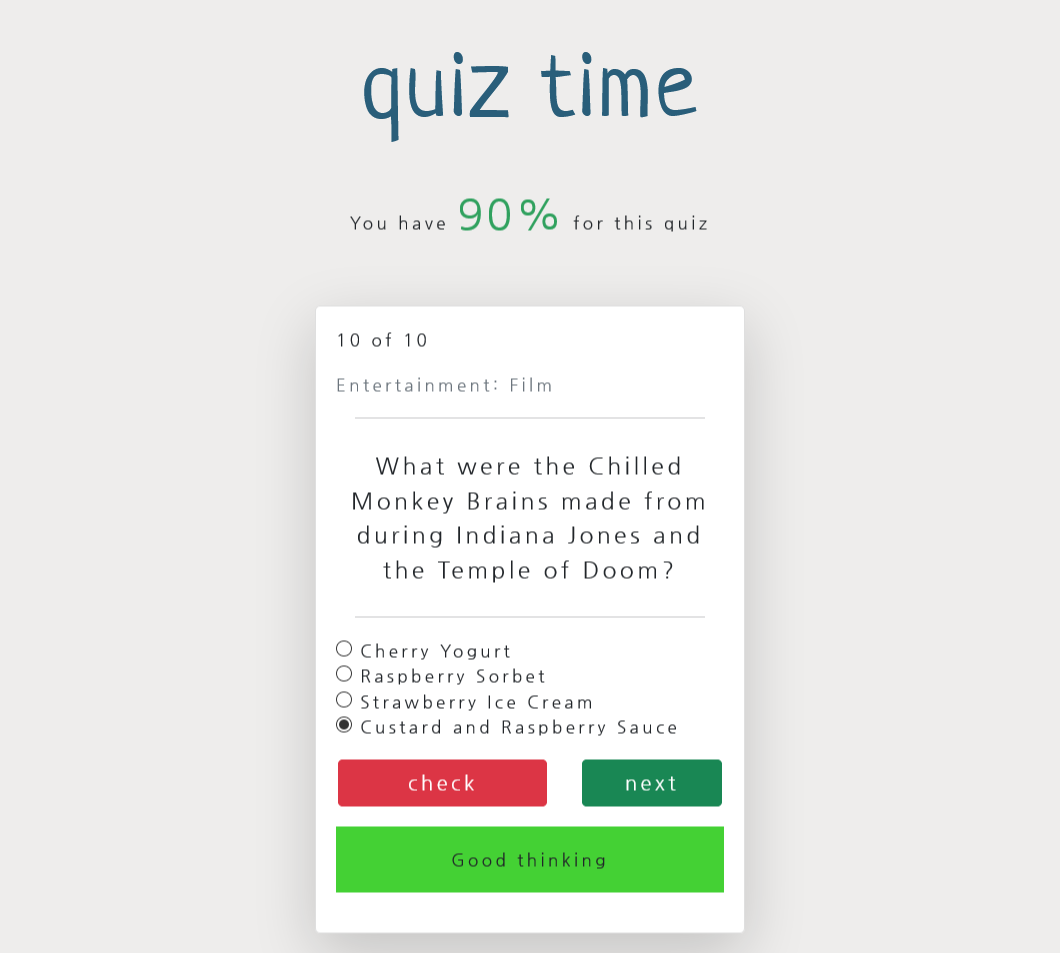
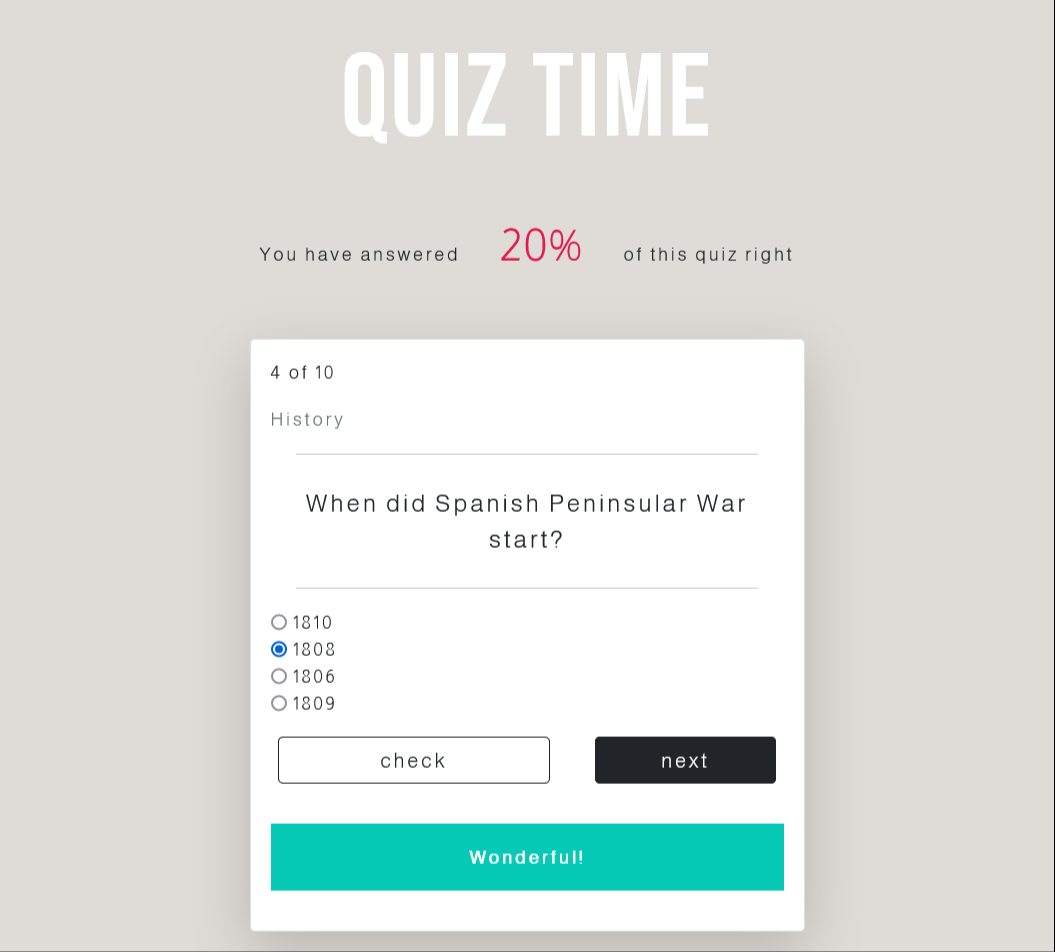
changed layout

diff --git a/script/app.js b/script/app.js
@@ -28,7 +28,7 @@ startQuiz.addEventListener('click', e => {
 let count = 0;
 const updateUI = (data) => {
     const entries = data.results;
-    console.log(entries);
+    //console.log(entries);
 
     if (entries.length == 0) {
         console.log('No results returned.');
@@ -68,7 +68,7 @@ const getQuestion = (data) => {
     for (let i = 0; i < entries[count].incorrect_answers.length; i++) {
         answers.push(entries[count].incorrect_answers[i]);
     }
-    console.table(answers);
+    //console.table(answers);
     /* randomise order of answers */
 
     answers.sort(() => Math.random() - 0.5);
@@ -111,12 +111,14 @@ const getQuestion = (data) => {
             let words = ['Good for you!', 'That’s really nice', 'Superb', 'That’s great!', 'You’ve got it made', 'Way to go!', 'Terrific', 'That’s the way to do it!', 'Good thinking', 'Marvelous', 'Keep up the good work', 'That’s it!', 'You’re on the right track now!', 'You haven’t missed a thing', 'Outstanding!', 'Fantastic!', 'You’re doing a good job', 'Good work', 'Right on!', 'Well, look at you go!', 'Tremendous!', 'That’s RIGHT!', 'Perfect!', 'You must have been practicing!', 'Nice going', 'Great!', 'You remembered!', 'WOW!', 'Wonderful!', 'You’re really working hard today', 'I knew you could do it!', 'I’m very proud of you', 'Fine!', 'Super!', 'That’s good', 'Good job', 'Keep it up!', 'Good remembering', 'Congratulations', 'Nothing can stop you now', 'Exactly right!', 'Excellent!', 'Sensational!', 'You’re doing beautifully', 'I’ve never seen anyone do it better', 'You’ve just mastered that!', 'You are very good at that'];
             let randomNumber = Math.round(Math.random() * (words.length - 1));
 
-            displayCorrect.style.backgroundColor = '#44d134';
-            displayCorrect.innerHTML = `<p class="p-3">${words[randomNumber]}</p>`;
+            displayCorrect.style.backgroundColor = '#06c9b6';
+            displayCorrect.style.color = '#fff';
+            displayCorrect.innerHTML = `<p class="p-3 response">${words[randomNumber]}</p>`;
             score += 10;
         } else {
-            displayCorrect.style.backgroundColor = '#e5245d';
-            displayCorrect.innerHTML = `<p class="p-3">ups..wrong. The right one is ${entries[count-1].correct_answer}</p>`;
+            displayCorrect.style.backgroundColor = '#c90671';
+            displayCorrect.style.color = '#fff';
+            displayCorrect.innerHTML = `<p class="p-3 response">ups..wrong. The right one is ${entries[count-1].correct_answer}</p>`;
         }
         nextBtn.classList.remove('disabled');
 

diff --git a/index.html b/index.html
@@ -9,10 +9,11 @@
     <!--bootstrap v.5.0.0-->
     <link href="https://cdn.jsdelivr.net/npm/bootstrap@5.0.0-beta2/dist/css/bootstrap.min.css" rel="stylesheet" integrity="sha384-BmbxuPwQa2lc/FVzBcNJ7UAyJxM6wuqIj61tLrc4wSX0szH/Ev+nYRRuWlolflfl" crossorigin="anonymous">
     <!-- google font-->
-    <link rel="preconnect" href="https://fonts.gstatic.com">
-    <link href="https://fonts.googleapis.com/css2?family=Nanum+Gothic&family=Neucha&display=swap" rel="stylesheet">
+    <link rel="preconnect" href="https://fonts.googleapis.com">
+    <link rel="preconnect" href="https://fonts.gstatic.com" crossorigin>
+    <link href="https://fonts.googleapis.com/css2?family=Almarai:wght@300&family=Bebas+Neue&display=swap" rel="stylesheet">
     <link rel="stylesheet" href="styles/styles.css">
-    <title>Quizz_Time</title>
+    <title>QuizTime</title>
 </head>
 
 <body>
@@ -20,13 +21,13 @@
     <!-- result section-->
     <div class='result d-none py-2 text-center'>
         <div>
-            <p>You have <span>0 points of 10</span> for this quiz</p>
+            <p>You have answered <span>0 points of 10</span> of this quiz right</p>
         </div>
     </div>
     <div class='container my-2 mx-auto'>
         <!-- quiz section -->
         <div class='d-flex justify-content-center'>
-            <a class='btn btn-warning mt-3' id='startQuiz'>start quiz</a>
+            <a class='btn btn-dark mt-3' id='startQuiz'>START</a>
         </div>
 
         <!-- Cards with questions -->
@@ -39,8 +40,8 @@
                 <hr>
                 <div id='allAnswers' class="my-3"></div>
                 <div class="d-flex row justify-content-around my-3">
-                    <a class='col-6 btn btn-danger' id='checkAnswer'>check</a>
-                    <a class='col-4 btn btn-success disabled' id='nextBtn'>next</a>
+                    <a class='col-6 btn btn-outline-dark' id='checkAnswer'>check</a>
+                    <a class='col-4 btn btn-dark disabled' id='nextBtn'>next</a>
                 </div>
                 <p class='text-center d-none' id='displayCorrect'></p>
             </div>

diff --git a/styles/styles.css b/styles/styles.css
@@ -1,28 +1,29 @@
 * {
   padding: 0;
   margin: 0;
-  font-family: 'Nanum Gothic', sans-serif;
+  font-family: 'Almarai', sans-serif;
 }
 
 body {
-  background: #eeedec;
-  letter-spacing: 0.2em;
-  font-size: 0.85em;
+  background: #dfdcd7;
+  letter-spacing: 0.15em;
+  font-size: 0.9em;
 }
 
 #appHeading {
-  font-size: 5.5em;
-  color: #295E7A;
-  font-family: 'Neucha', cursive;
+  font-size: 6.5em;
+  color: white;
+  font-family: 'Bebas Neue', cursive;
 }
 
 span {
-  color: #30a15e;
+  color: #e4194c;
   font-size: 2.5em;
+  padding: 0 .75em;
 }
 
 .container {
-  max-width: 400px;
+  max-width: 500px;
 }
 
 hr {
@@ -32,5 +33,10 @@ hr {
 
 #question {
   font-size: 1.35em;
+}
+
+.response {
+  font-weight: bold;
+  margin-top: 2rem;
 }
 /*# sourceMappingURL=styles.css.map */

diff --git a/styles/styles.sass b/styles/styles.sass
@@ -1,24 +1,25 @@
 *
     padding: 0
     margin: 0
-    font-family: 'Nanum Gothic', sans-serif
+    font-family: 'Almarai', sans-serif;
 
 body
-    background: #eeedec
-    letter-spacing: 0.2em
-    font-size: 0.85em
+    background: #dfdcd7
+    letter-spacing: 0.15em
+    font-size: 0.9em
 
 #appHeading
-    font-size: 5.5em
-    color: #295E7A
-    font-family: 'Neucha', cursive
+    font-size: 6.5em
+    color: white
+    font-family: 'Bebas Neue', cursive
 
 span
-    color: #30a15e
+    color: #e4194c
     font-size: 2.5em
+    padding: 0 .75em
 
 .container 
-    max-width: 400px
+    max-width: 500px
 
 hr
     width: 90%
@@ -26,3 +27,7 @@ hr
 
 #question
     font-size: 1.35em
+
+.response
+    font-weight: bold
+    margin-top: 2rem
